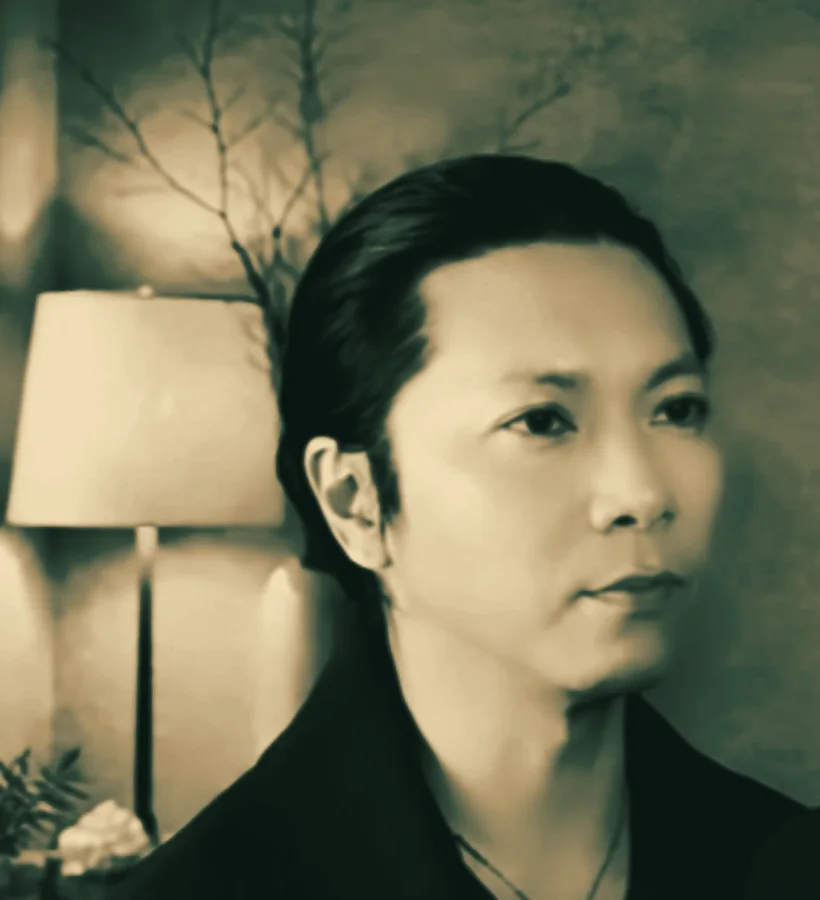
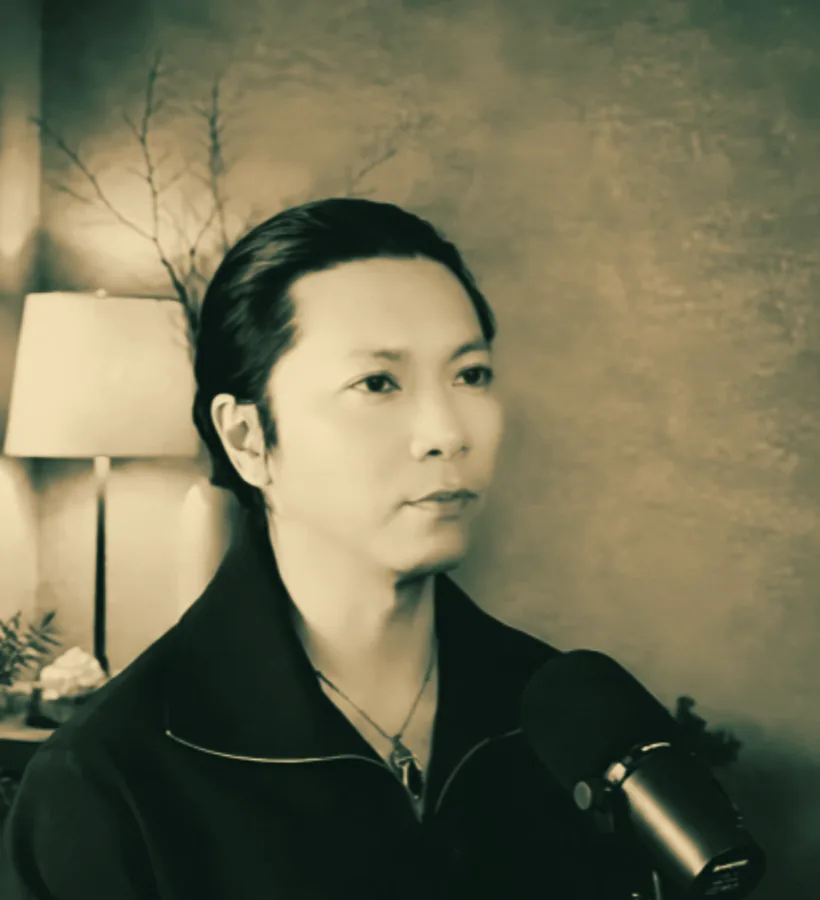
課程督導照片拉遠取景，桌機區塊加高以完整呈現臉部 (#304)
Claude-Session: https://claude.ai/code/session_01U6mfPGyQKSkHiZeGPBAgAa

diff --git a/course-instructor.css b/course-instructor.css
@@ -1,8 +1,8 @@
 /* 課程共用「課程督導」區塊：內容見 partials/course-instructor.config.json，由 scripts/sync-course-instructor.mjs 寫入各頁 */
 .ci{position:relative;overflow:hidden;background:#0c1712;color:#f5f0e8}
-.ci-in{display:grid;grid-template-columns:minmax(0,1fr) minmax(0,1fr);align-items:center;width:min(1120px,calc(100% - 48px));margin:0 auto;min-height:540px}
+.ci-in{display:grid;grid-template-columns:minmax(0,1fr) minmax(0,1fr);align-items:center;width:min(1120px,calc(100% - 48px));margin:0 auto;min-height:clamp(540px,34vw,680px)}
 .ci-ph{position:relative;order:1;align-self:stretch;margin:0 0 0 calc((100vw - min(1120px,100vw - 48px))/-2)}
-.ci-ph img{position:absolute;inset:0;width:100%;height:100%;object-fit:cover;object-position:30% 20%;-webkit-mask-image:linear-gradient(270deg,transparent 0,#000 40%);mask-image:linear-gradient(270deg,transparent 0,#000 40%)}
+.ci-ph img{position:absolute;inset:0;width:100%;height:100%;object-fit:cover;object-position:30% 25%;-webkit-mask-image:linear-gradient(270deg,transparent 0,#000 40%);mask-image:linear-gradient(270deg,transparent 0,#000 40%)}
 .ci-ph:after{content:"";position:absolute;inset:0;background:linear-gradient(0deg,#0c1712,transparent 9%),linear-gradient(180deg,#0c1712,transparent 7%)}
 .ci-copy{order:2;justify-self:end;max-width:540px;padding:56px 0}
 .ci-label{display:block;margin:0 0 14px;color:#c8aa7b;font-size:15px;letter-spacing:.2em}

diff --git a/courses/lecture-series.html b/courses/lecture-series.html
@@ -23,7 +23,7 @@
   <script src="/analytics-config.js"></script>
   <script src="/analytics.js" defer></script>
 <link rel="stylesheet" href="/course-contact.css?v=c394ffcd">
-<link rel="stylesheet" href="/course-instructor.css?v=15fa0656">
+<link rel="stylesheet" href="/course-instructor.css?v=4ff0d27d">
 <link rel="stylesheet" href="/site-footer.css?v=6152ecf0">
 <link rel="stylesheet" href="/course-rhythm.css?v=b30d9759">
 </head>

diff --git a/courses/refined-dialogue.html b/courses/refined-dialogue.html
@@ -29,7 +29,7 @@
   </script>
 <link rel="stylesheet" href="/site-footer.css?v=6152ecf0">
 <link rel="stylesheet" href="/course-contact.css?v=c394ffcd">
-<link rel="stylesheet" href="/course-instructor.css?v=15fa0656">
+<link rel="stylesheet" href="/course-instructor.css?v=4ff0d27d">
 <link rel="stylesheet" href="/course-rhythm.css?v=b30d9759">
 </head>
 <body class="dialogue-page">

diff --git a/courses/lingji-practice.html b/courses/lingji-practice.html
@@ -738,7 +738,7 @@
     .course-breadcrumb span[aria-current="page"]{color:rgba(245,240,232,.68)}
   </style>
 <link rel="stylesheet" href="/site-footer.css?v=6152ecf0">
-<link rel="stylesheet" href="/course-instructor.css?v=15fa0656">
+<link rel="stylesheet" href="/course-instructor.css?v=4ff0d27d">
 <link rel="stylesheet" href="/course-rhythm.css?v=b30d9759">
 </head>
 <body>

diff --git a/courses/spiritual-awakening-advanced.html b/courses/spiritual-awakening-advanced.html
@@ -40,7 +40,7 @@
   </script>
 <link rel="stylesheet" href="/site-footer.css?v=6152ecf0">
 <link rel="stylesheet" href="/course-contact.css?v=c394ffcd">
-<link rel="stylesheet" href="/course-instructor.css?v=15fa0656">
+<link rel="stylesheet" href="/course-instructor.css?v=4ff0d27d">
 <link rel="stylesheet" href="/course-rhythm.css?v=b30d9759">
 </head>
 <body class="adv">

diff --git a/courses/male-yoga-energy.html b/courses/male-yoga-energy.html
@@ -398,7 +398,7 @@
   </style>
 <link rel="stylesheet" href="/site-footer.css?v=6152ecf0">
 <link rel="stylesheet" href="/course-contact.css?v=c394ffcd">
-<link rel="stylesheet" href="/course-instructor.css?v=15fa0656">
+<link rel="stylesheet" href="/course-instructor.css?v=4ff0d27d">
 <link rel="stylesheet" href="/course-rhythm.css?v=b30d9759">
 </head>
 <body>

diff --git a/courses/spiritual-awakening.html b/courses/spiritual-awakening.html
@@ -38,7 +38,7 @@
   </script>
 <link rel="stylesheet" href="/site-footer.css?v=6152ecf0">
 <link rel="stylesheet" href="/course-contact.css?v=c394ffcd">
-<link rel="stylesheet" href="/course-instructor.css?v=15fa0656">
+<link rel="stylesheet" href="/course-instructor.css?v=4ff0d27d">
 <link rel="stylesheet" href="/course-rhythm.css?v=b30d9759">
 </head>
 <body>
